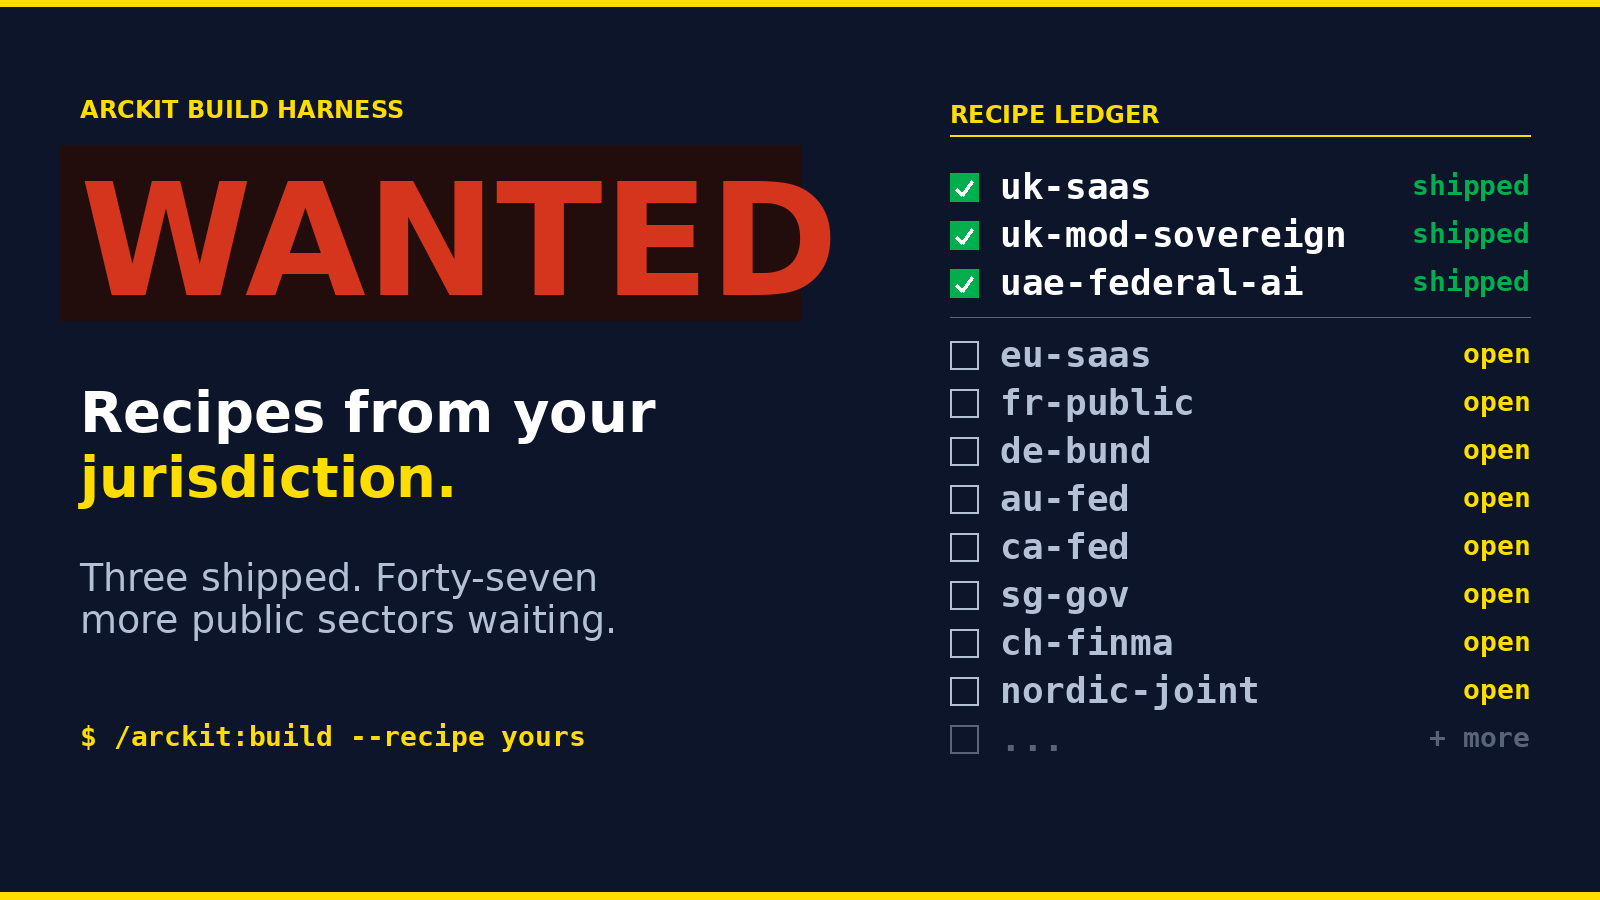
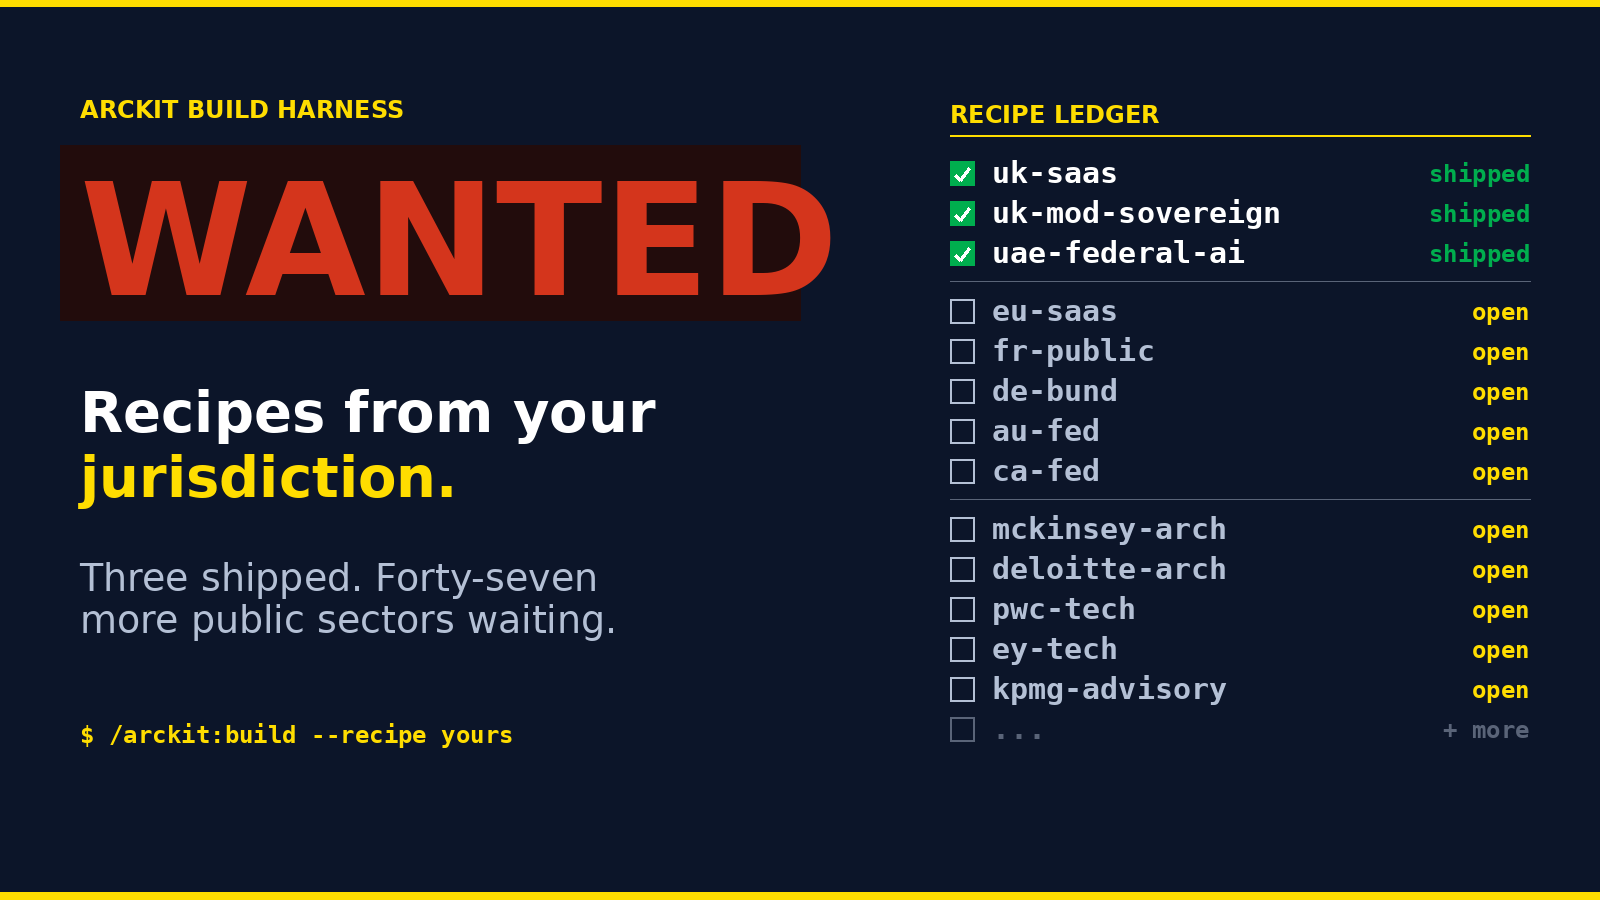
docs(article): add consultancy / firm recipes to hero ledger and article body
Hero now lists 5 jurisdictional + 5 consultancy slots beneath the
3 shipped recipes:

  Jurisdictional opens
    eu-saas, fr-public, de-bund, au-fed, ca-fed

  Consultancy opens (new)
    mckinsey-arch, deloitte-arch, pwc-tech, ey-tech, kpmg-advisory

Plus the "+ more" line.

Visual changes to fit 16 entries on the canvas

  - mono_lg font 36 → 30
  - mono_md font 28 → 24
  - row_h 48 → 40
  - checkbox 28×28 → 24×24
  - row_y starts 65 → 55 below the section title

Article body adds a new section "And another category: consultancy
and firm recipes" between the jurisdictional list and the recognition
section. Argues that any institution with a house governance style
(Big 4, MBB, system integrators, banks, in-house enterprise practices,
academic frameworks) could formalise it as an open recipe. Reframes
recipes as "composition, not endorsement" — shipping a mckinsey-arch
recipe doesn't mean ArcKit recommends McKinsey.

diff --git a/docs/articles/2026-05-03-community-recipes-wanted.md b/docs/articles/2026-05-03-community-recipes-wanted.md
@@ -65,6 +65,16 @@ Recipes will land with the contributor's name in the commit history and in the r
 
 These aren't exclusive. If your jurisdiction isn't on the list, that's not a no.
 
+## And another category: consultancy and firm recipes
+
+A recipe is a YAML file describing a coherent governance bundle. Nothing in that definition restricts it to public sector. Every Big 4 advisory practice and every strategy consultancy has its own house style for how an architecture engagement should be structured: which artefacts get produced, in which order, against which risk frameworks, with which approval gates. That house style is institutional knowledge, often locked inside slide decks and SharePoint sites.
+
+We'd happily ship a recipe like `mckinsey-arch`, `deloitte-arch`, `pwc-tech`, `ey-tech`, `kpmg-advisory`, `accenture-tech`, `bcg-platinion`, or `bain-tech` if a contributor inside one of those firms wanted to formalise their internal governance bundle as an open recipe. The benefit cuts both ways: the firm gets a public, executable, version-controlled artefact catalogue; ArcKit users get more options when bidding into engagements where a particular firm's playbook is expected.
+
+The same applies to system integrators, in-house architecture practices at large enterprises, and academic governance frameworks (TOGAF-aligned, Zachman-aligned). If you maintain a governance template inside a consultancy, a SI, a bank, or a university, your recipe could ship alongside `uk-saas` and benefit thousands of architects who have to reinvent the same wheel every time they start a new engagement.
+
+Recipes are composition, not endorsement. Shipping a `mckinsey-arch` recipe doesn't mean ArcKit recommends McKinsey, and adopting it doesn't make a project a McKinsey project. It just means there's a turnkey way to run a McKinsey-style engagement governance flow if that's what the situation calls for.
+
 The ArcKit community is small and the build harness is new. The first dozen recipes get to define what jurisdiction-specific governance looks like in this toolchain. Worth claiming yours.
 
 ---
